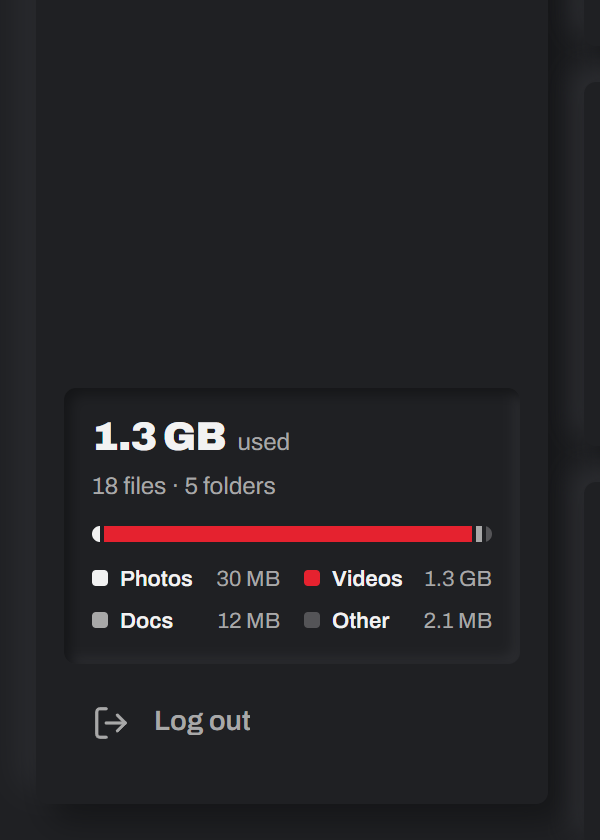
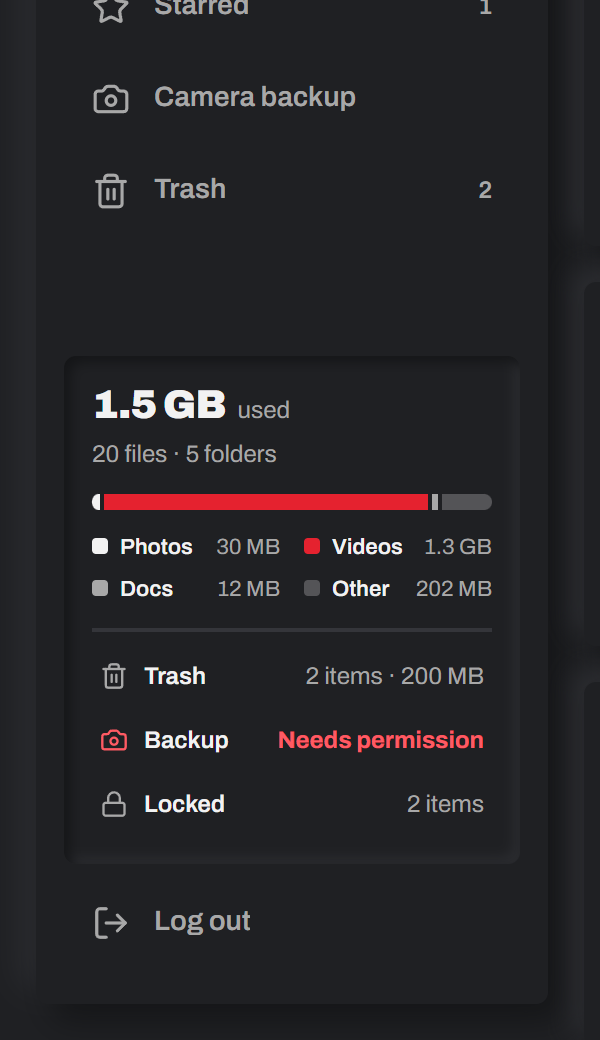
Storage card: trash, camera backup status and locked items
- Trash: items and size, opens Trash
- Backup (app): short status, red when it needs attention, opens Camera backup
- Locked: how many; 'N open · Lock all' while some are unlocked (replaces the separate Lock all item)
- Dev: ?mock&app shows the app-only parts in the browser

Claude-Session: https://claude.ai/code/session_01UyFGSQ7FNrJdkYLnoMSgum

diff --git a/src/components/Sidebar.tsx b/src/components/Sidebar.tsx
@@ -1,13 +1,14 @@
 import {
-  Camera, Check, ChevronDown, Clock, Download, FolderPlus, FolderUp, HardDrive, Lock, LogOut, Plus, Star,
+  Camera, Check, ChevronDown, Clock, Download, FolderPlus, FolderUp, HardDrive, Lock, LockOpen, LogOut, Plus, Star,
   Trash2, Upload, type LucideIcon,
 } from 'lucide-react'
 import { useMemo, useState } from 'react'
-import { NavLink, useLocation } from 'react-router-dom'
+import { NavLink, useLocation, useNavigate } from 'react-router-dom'
 import { driveName } from '../telegram/channel'
 import { installApp, useInstall } from '../lib/install'
-import { driveStats, starredItems, trashedItems, type Drive } from '../drive/tree'
+import { collectTree, driveStats, isHidden, starredItems, trashedItems, type Drive } from '../drive/tree'
 import { category, formatBytes } from '../lib/format'
+import { useBackup } from '../native/backup'
 import { useDrive, useRootName } from '../store/useDrive'
 import Logo from './Logo'
 import Menu, { type MenuEntry } from './Menu'
@@ -111,11 +112,10 @@ export default function Sidebar(props: {
         <Link to="/starred" icon={Star} label="Starred" count={counts.starred} />
         {onCameraBackup && <Item icon={Camera} label="Camera backup" onClick={onCameraBackup} />}
         <Link to="/trash" icon={Trash2} label="Trash" count={counts.trash} />
-        {onLockAll && <Item icon={Lock} label="Lock all" onClick={onLockAll} hint="Unlocked items" />}
       </nav>
 
       <div className="mt-auto space-y-2 pt-6">
-        <StorageCard drive={drive} />
+        <StorageCard drive={drive} onCameraBackup={onCameraBackup} onLockAll={onLockAll} />
         {canInstall && <Item icon={Download} label="Install app" onClick={() => void installApp()} />}
         <Item icon={LogOut} label="Log out" onClick={onLogout} />
       </div>
@@ -156,15 +156,29 @@ const KINDS = [
 type Kind = (typeof KINDS)[number]['key']
 const KIND_OF: Partial<Record<string, Kind>> = { image: 'photos', video: 'videos', document: 'documents' }
 
-/** Space used, how many files, and what takes the space. */
-function StorageCard({ drive }: { drive: Drive }) {
-  const { stats, byKind } = useMemo(() => {
+/** Space used, how many files, and what takes the space; then trash, camera backup and locked items. */
+function StorageCard(props: { drive: Drive; onCameraBackup?: () => void; onLockAll?: () => void }) {
+  const { drive, onCameraBackup, onLockAll } = props
+  const navigate = useNavigate()
+  const backup = useBackup()
+  const { stats, byKind, trash, locks } = useMemo(() => {
     const byKind: Record<Kind, number> = { photos: 0, videos: 0, documents: 0, other: 0 }
-    for (const i of drive.items.values())
-      if (i.kind === 'file' && !i.concealed) byKind[KIND_OF[category(i)] ?? 'other'] += i.size
-    return { stats: driveStats(drive), byKind }
+    const locks = { locked: 0, open: 0 }
+    for (const i of drive.items.values()) {
+      if (i.concealed) continue
+      if (i.kind === 'file') byKind[KIND_OF[category(i)] ?? 'other'] += i.size
+      if (i.lock && !isHidden(drive, i)) locks[i.locked ? 'locked' : 'open']++
+    }
+    // Everything in the trash, including what's inside trashed folders
+    const trashed = trashedItems(drive)
+    const bytes = trashed.reduce(
+      (n, t) => n + collectTree(drive, t.id).reduce((m, i) => m + (i.kind === 'file' && !i.concealed ? i.size : 0), 0),
+      0,
+    )
+    return { stats: driveStats(drive), byKind, trash: { items: trashed.length, bytes }, locks }
   }, [drive])
   const used = KINDS.filter((k) => byKind[k.key] > 0)
+  const backupProblem = /^(Error|Needs|Paused|Some)/.test(backup.status)
 
   return (
     <div className="rounded-md p-3.5 pressed">
@@ -193,6 +207,64 @@ function StorageCard({ drive }: { drive: Drive }) {
           </ul>
         </>
       )}
+
+      <div className="mt-3 border-t-2 border-line pt-1.5">
+        <Stat
+          icon={Trash2}
+          label="Trash"
+          value={trash.items ? `${trash.items} item${trash.items === 1 ? '' : 's'} · ${formatBytes(trash.bytes)}` : 'Empty'}
+          onClick={() => navigate('/trash')}
+        />
+        {onCameraBackup && (
+          <Stat
+            icon={Camera}
+            label="Backup"
+            value={backup.settings.enabled ? shortStatus(backup.status) : 'Off'}
+            title={backup.settings.enabled ? backup.status : undefined}
+            alert={backupProblem}
+            onClick={onCameraBackup}
+          />
+        )}
+        <Stat
+          icon={locks.open ? LockOpen : Lock}
+          label="Locked"
+          value={locks.open ? `${locks.open} open · Lock all` : locks.locked ? `${locks.locked} item${locks.locked === 1 ? '' : 's'}` : 'None'}
+          alert={locks.open > 0}
+          onClick={locks.open ? onLockAll : undefined}
+        />
+      </div>
     </div>
+  )
+}
+
+/** Camera backup's status, short enough for the card (the full text is the tooltip). */
+function shortStatus(status: string): string {
+  if (status.startsWith('Needs permission')) return 'Needs permission'
+  if (status.startsWith('Paused')) return 'Paused'
+  if (status.includes('TeleDrive password')) return 'Needs password'
+  if (status.startsWith('Error')) return 'Error'
+  if (status.startsWith('Some items failed')) return 'Some failed'
+  return status.replace('Waiting for ', 'Waiting: ')
+}
+
+/** One line under the storage bar; a button when it leads somewhere. */
+function Stat(props: { icon: LucideIcon; label: string; value: string; title?: string; alert?: boolean; onClick?: () => void }) {
+  const { icon: Icon, label, value, title = value, alert, onClick } = props
+  const body = (
+    <>
+      <Icon className={`size-3.5 shrink-0 ${alert ? 'text-brand-ink' : 'text-muted'}`} strokeWidth={2} />
+      <span className="font-semibold">{label}</span>
+      <span className={`ml-auto min-w-0 truncate ${alert ? 'font-bold text-brand-ink' : 'text-muted'}`} title={title}>
+        {value}
+      </span>
+    </>
+  )
+  const cls = 'flex h-8 w-full items-center gap-2 rounded-md px-1 text-left text-xs'
+  return onClick ? (
+    <button className={`${cls} transition-[box-shadow] duration-120 hover:bg-surface hover:raised-xs`} onClick={onClick}>
+      {body}
+    </button>
+  ) : (
+    <div className={cls}>{body}</div>
   )
 }

diff --git a/src/pages/Drive.tsx b/src/pages/Drive.tsx
@@ -73,6 +73,9 @@ const TITLES: Record<Mode, string> = { folder: 'My Drive', search: 'Search', rec
 
 const act = (p: Promise<unknown>) => p.catch(toastError)
 
+/** The app's own features (camera backup). In development, `?mock&app` shows them in the browser too. */
+const appUi = isAndroid || (import.meta.env.DEV && new URLSearchParams(location.search).has('app'))
+
 /** The folder being browsed before a search started, so leaving the search goes back there. */
 let lastFolderPath = '/'
 
@@ -539,7 +542,7 @@ export default function DrivePage({ mode }: { mode: Mode }) {
         void act(useDrive.getState().switchDrive(id))
       }}
       onNewDrive={() => setModal({ type: 'newDrive' })}
-      onCameraBackup={isAndroid ? () => setModal({ type: 'backup' }) : undefined}
+      onCameraBackup={appUi ? () => setModal({ type: 'backup' }) : undefined}
     />
   )
 
@@ -786,7 +789,7 @@ export default function DrivePage({ mode }: { mode: Mode }) {
         )}
         <TransferPanel className="pointer-events-auto w-full" />
       </div>
-      <BottomNav onBackup={isAndroid ? () => setModal({ type: 'backup' }) : undefined} />
+      <BottomNav onBackup={appUi ? () => setModal({ type: 'backup' }) : undefined} />
 
       {dragging && (
         <div className="pointer-events-none fixed inset-0 z-50 flex items-center justify-center bg-scrim p-6">

diff --git a/src/dev/mock.ts b/src/dev/mock.ts
@@ -4,6 +4,7 @@
 import type { Meta } from '../drive/meta'
 import type { Transfer } from '../drive/queue'
 import { buildDrive, type MessageRecord } from '../drive/tree'
+import { useBackup } from '../native/backup'
 import { useDrive, type Phase } from '../store/useDrive'
 
 const DAY = 86_400
@@ -27,6 +28,8 @@ const files: [string, string, string, number, string, number, Record<string, unk
   ['notes', 'root', 'notes.txt', 4_000, 'text/plain', 8],
   ['secret', 'root', '', 52_000, 'application/pdf', 4, { l: lock, x: { enc: 1 }, e: 'sealed' }],
   ['itr', 'docs', 'ITR acknowledgement.pdf', 240_000, 'application/pdf', 10],
+  ['old', 'root', 'Old backup.zip', 210_000_000, 'application/zip', 20, { x: { tr: now - 2 * DAY } }],
+  ['draft', 'root', 'Draft notes.txt', 3_000, 'text/plain', 12, { x: { tr: now - 5 * DAY } }],
   ...Array.from({ length: 9 }, (_, i) => [`cam${i}`, 'photos', `IMG_20${41 + i}.jpg`, 2_900_000 + i * 50_000, 'image/jpeg', 0.3 + i] as const),
 ] as never
 
@@ -66,3 +69,5 @@ useDrive.setState({
   refresh: async () => {},
   submitPassword: async () => {},
 })
+// `&app` shows the Android-only parts (camera backup); see DrivePage
+useBackup.setState({ settings: { enabled: true, wifiOnly: true, since: 0 }, status: param.get('backup') ?? 'Up to date' })

diff --git a/DESIGN.md b/DESIGN.md
@@ -164,7 +164,7 @@ Swiss details:
   - logo + "TeleDrive" + drive name with a chevron (drive switcher);
   - red **New** button;
   - nav items: My Drive, Recent, Starred, Camera backup (app only), Trash, with counts on the right in `--muted`;
-  - a storage card at the bottom (`pressed`): space used in large type, files · folders, and a bar of what takes the space (Photos ink, Videos red, Docs muted, Other faint) with sizes underneath.
+  - a storage card at the bottom (`pressed`): space used in large type, files · folders, and a bar of what takes the space (Photos ink, Videos red, Docs muted, Other faint) with sizes underneath. Below a rule: **Trash** (items · size, opens Trash), **Backup** (app only: status, red when it needs attention, opens Camera backup) and **Locked** (how many; red “N open · Lock all” while some are unlocked).
 - **Top bar:** search (pressed, fills the width), List/Grid segmented control, theme icon button, avatar.
 - **Header:** H1 + item count, or a breadcrumb inside folders. Filter chips go underneath.
 - **Content:** the file list or grid in one `raised-lg` panel. The right column (290 px) shows Transfers when active.

diff --git a/IMPLEMENTATION.md b/IMPLEMENTATION.md
@@ -517,7 +517,7 @@ The full visual spec (tokens, components, screens, and the step-by-step plan) is
 
 ### 7.4 Checking the design on a computer
 - `npm run dev`, then open `http://localhost:5173/?mock` for sample files without Telegram (`?mock=password`,
-  `?mock=password&create`, `?mock=login`, `&transfers` for the transfers panel). Development only.
+  `?mock=password&create`, `?mock=login`, `&transfers` for the transfers panel, `&app` for the Android-only parts such as camera backup, `&backup=<status>`). Development only.
 
 **Phase 7 done when:** every item under REQUIREMENTS §4.7 is checked.
 
